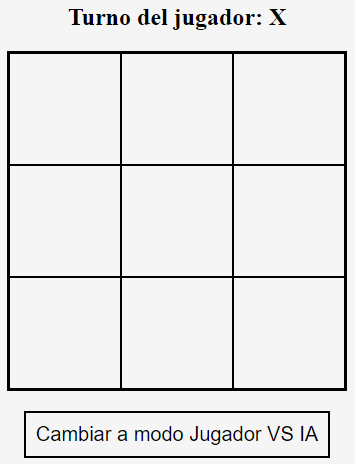
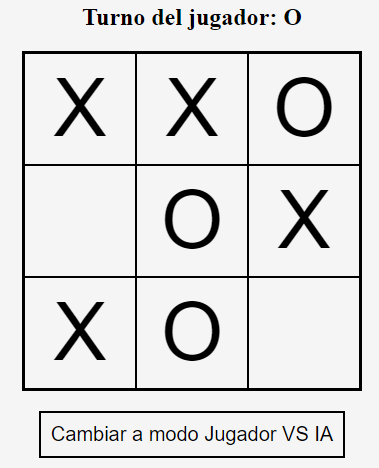
Bug fixes y arreglos minimos
Arreglo del link al repositorio de github del TaTeTi y cambio de la imagen.
Arreglo del tamaño de los iconos y el texto de contacto y atribucion.
Arreglos menos en el CSS.

diff --git a/index.html b/index.html
@@ -23,7 +23,7 @@
 
 <section class="tecnologias" id="tecnologias">
 
-  <h2 class="tecnologias-titulo barra-celeste-2">Tecnologías</h2>
+  <h2 class="tecnologias-titulo">Tecnologías</h2>
 
   <div class="tecnologias-contenedor-iconos">
 
@@ -66,8 +66,8 @@
     <h3>TaTeTi</h3>
     <img src="img/TaTeTi-capture.PNG" alt="">
     <p>Lenguajes: HTML, CSS y JavaScript.</p>
-    <a href="https://github.com/lucaschalliol/Proyectos/tree/main/Proyectos/TaTeTi"><button>Repositorio</button></a>
-    <a href="Proyectos/TaTeTi/TaTeTi.html"><button>Jugar</button></a>
+    <a href="https://github.com/lucaschalliol/portafolio/tree/main/Proyectos/TaTeTi" target="_blank"><button>Repositorio</button></a>
+    <a href="Proyectos/TaTeTi/TaTeTi.html" target="_blank"><button>Jugar</button></a>
     <p>Version: 1.0</p>
   </div>
 </div>
@@ -78,7 +78,7 @@
 
 <footer class="contacto" id="contacto">
 
-<h2 class="contacto-titulo barra-celeste-3">Contacto</h2>
+<h2 class="contacto-titulo">Contacto</h2>
 
 <div class="tecnologias-contenedor-iconos">
   <div>

diff --git a/index.css b/index.css
@@ -67,7 +67,7 @@
 }
 
 .tecnologias-contenedor-iconos img{ 
-    height: 4rem;
+    height: 72px;
 }
 
 .tecnologias-contenedor-iconos h3{
@@ -158,9 +158,6 @@
     cursor: pointer;
 }
 
-
-/* Fin de la card */
-
 /* Fin de proyectos*/
 
 /* Inicio de Contacto*/
@@ -199,7 +196,7 @@
 
 .atribucion-iconos p {
     margin-top: 1rem;
-    font-size: 1em;
+    font-size: 18px;
 }
 
 .atribucion-iconos a {
@@ -208,11 +205,3 @@
 }
 
 /* Fin de las atribuciones*/
-
-/*
-@media (max-width: 600px) {
-    .proyectos {
-        height: 1200px;
-    }
-  }
-*/
